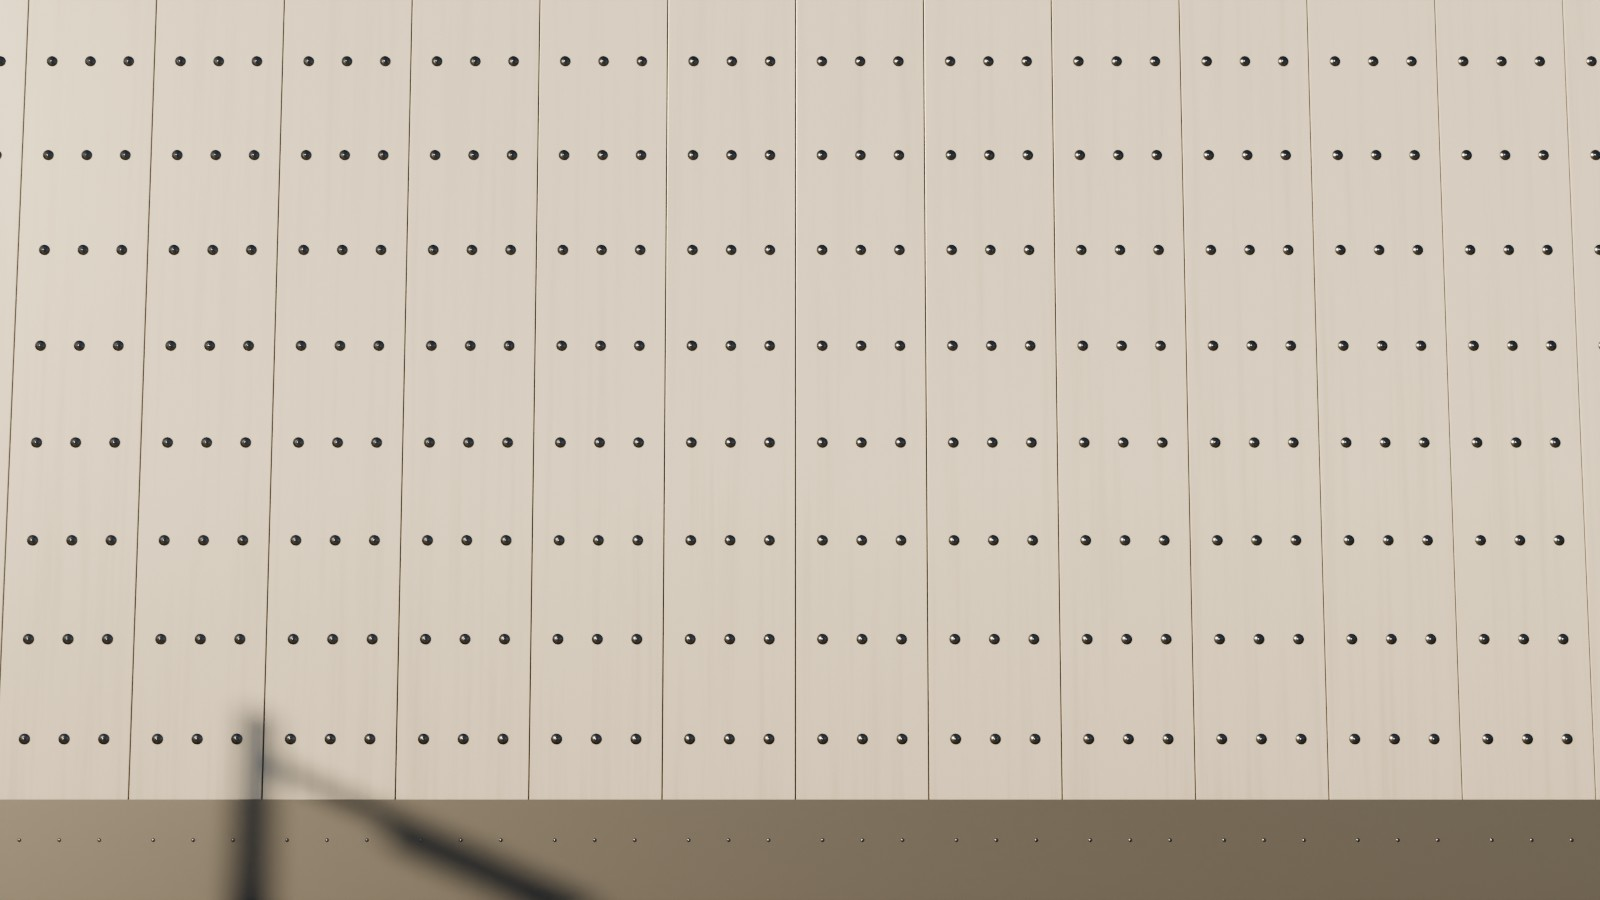
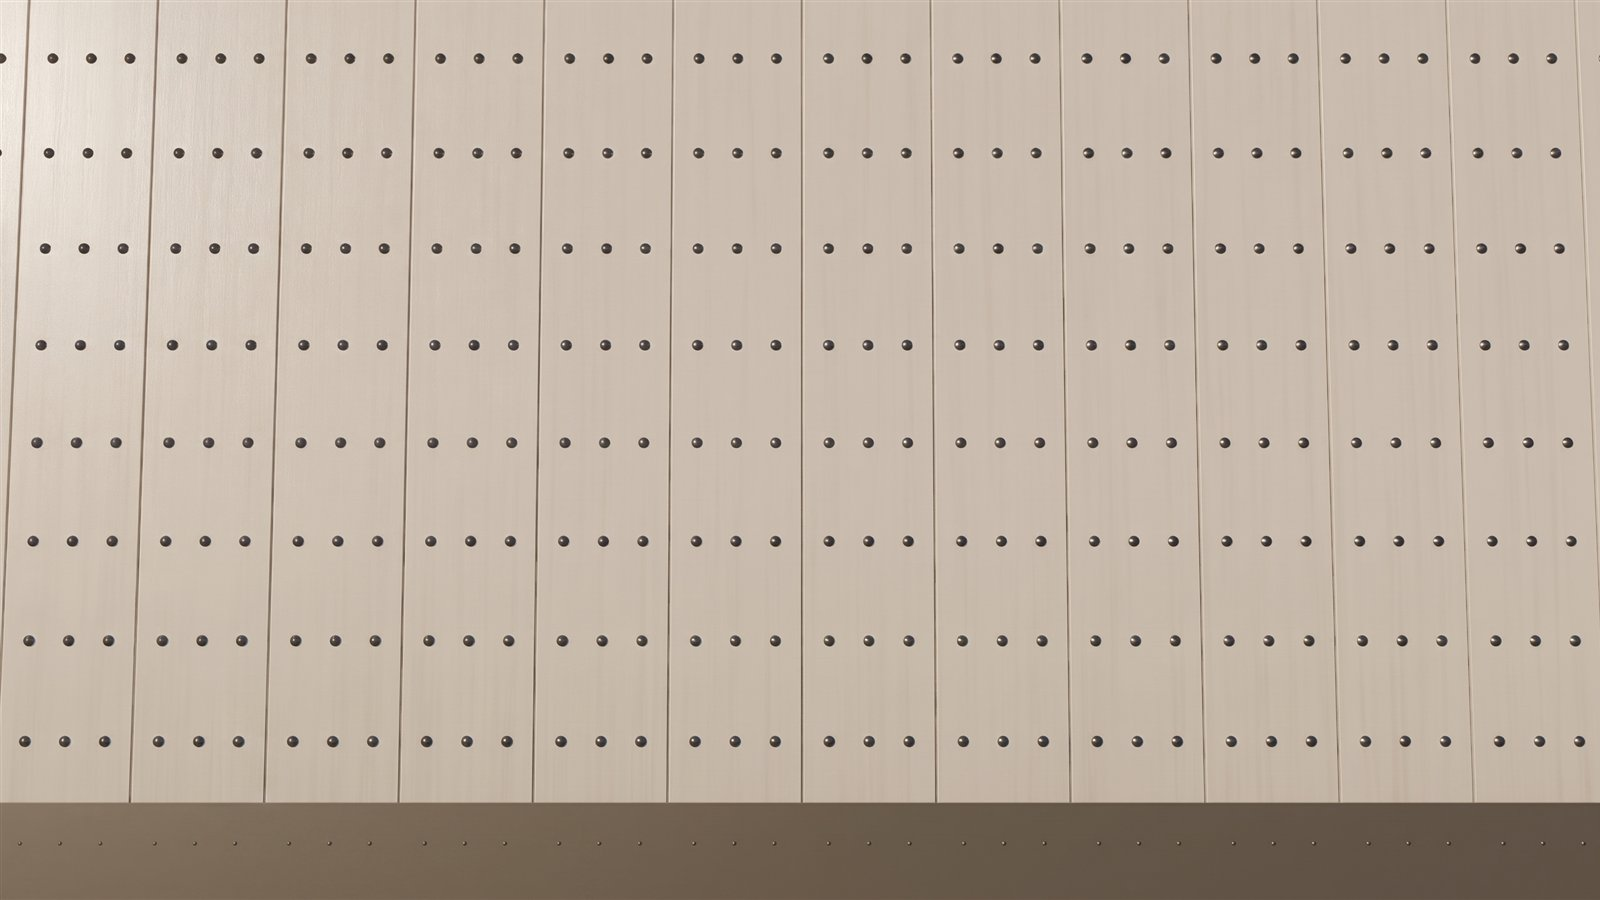
Data center tour: photoreal versions of the 8 panoramas and 11 close-ups (Blender renders enhanced with Higgsfield FLUX 3 and Nano Banana Pro, layout kept so the pins still line up); caption says AI-enhanced illustration

diff --git a/concept/data-centers.html b/concept/data-centers.html
@@ -63,7 +63,7 @@
       <div id="bview" data-scene="data-center" aria-label="Picture of a data center with numbered parts. The list beside it has every part."></div>
       <div class="bmode" role="group" aria-label="View"><button type="button" class="on" data-mode="out" aria-pressed="true">Outside</button><button type="button" data-mode="in" aria-pressed="false">Inside</button></div>
       <p class="bhint">Drag to look around</p>
-      <p class="bcap">3D render of a typical data center, not a photo of a US Panels job</p>
+      <p class="bcap">Illustration of a typical data center (3D model, enhanced with AI), not a photo of a US Panels job</p>
     </div>
     <aside class="bsheet" id="bsheet" aria-live="polite"></aside>
   </div>
